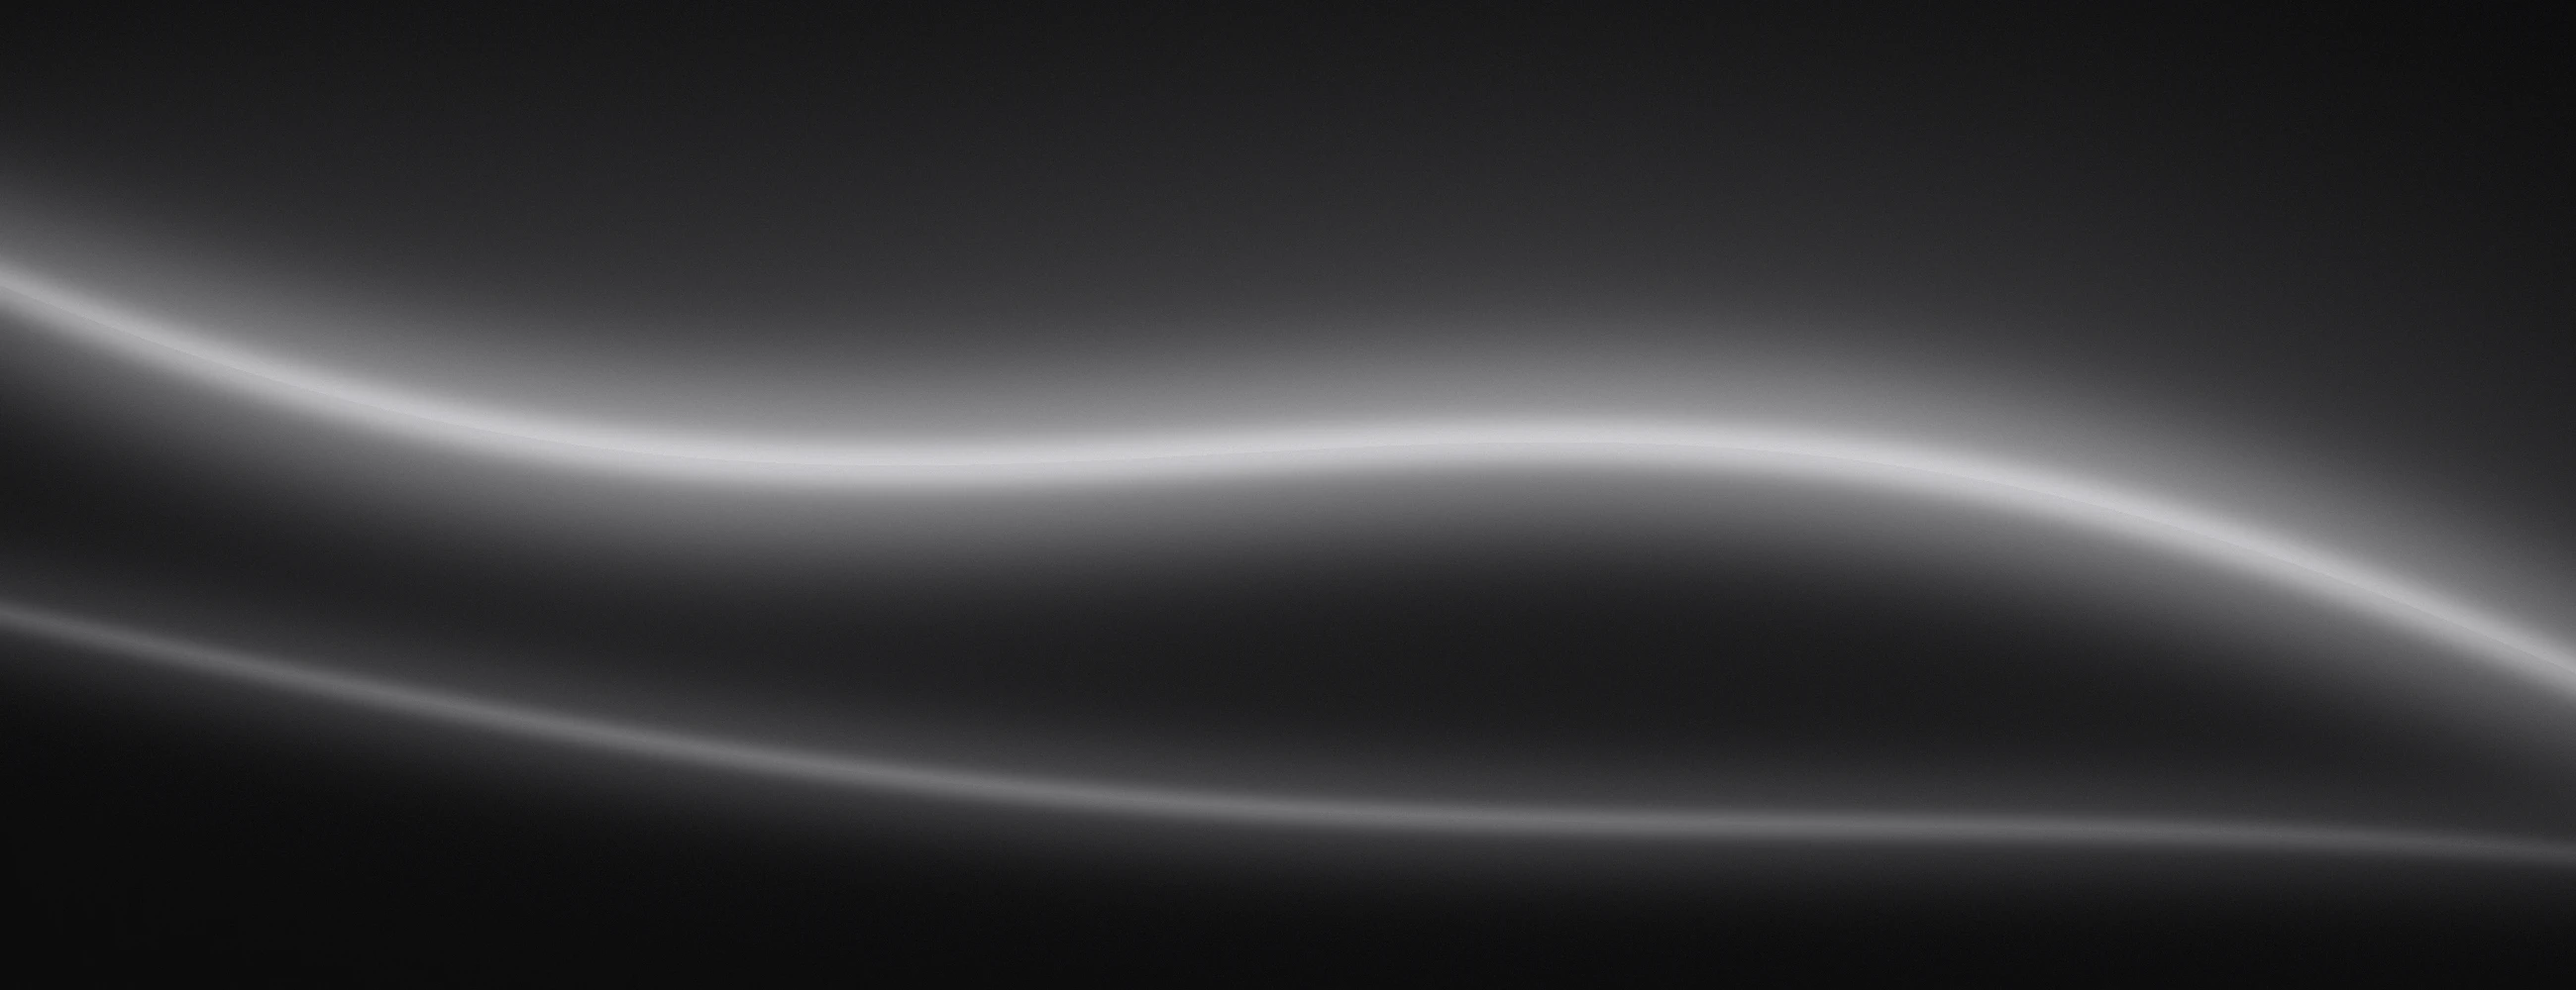
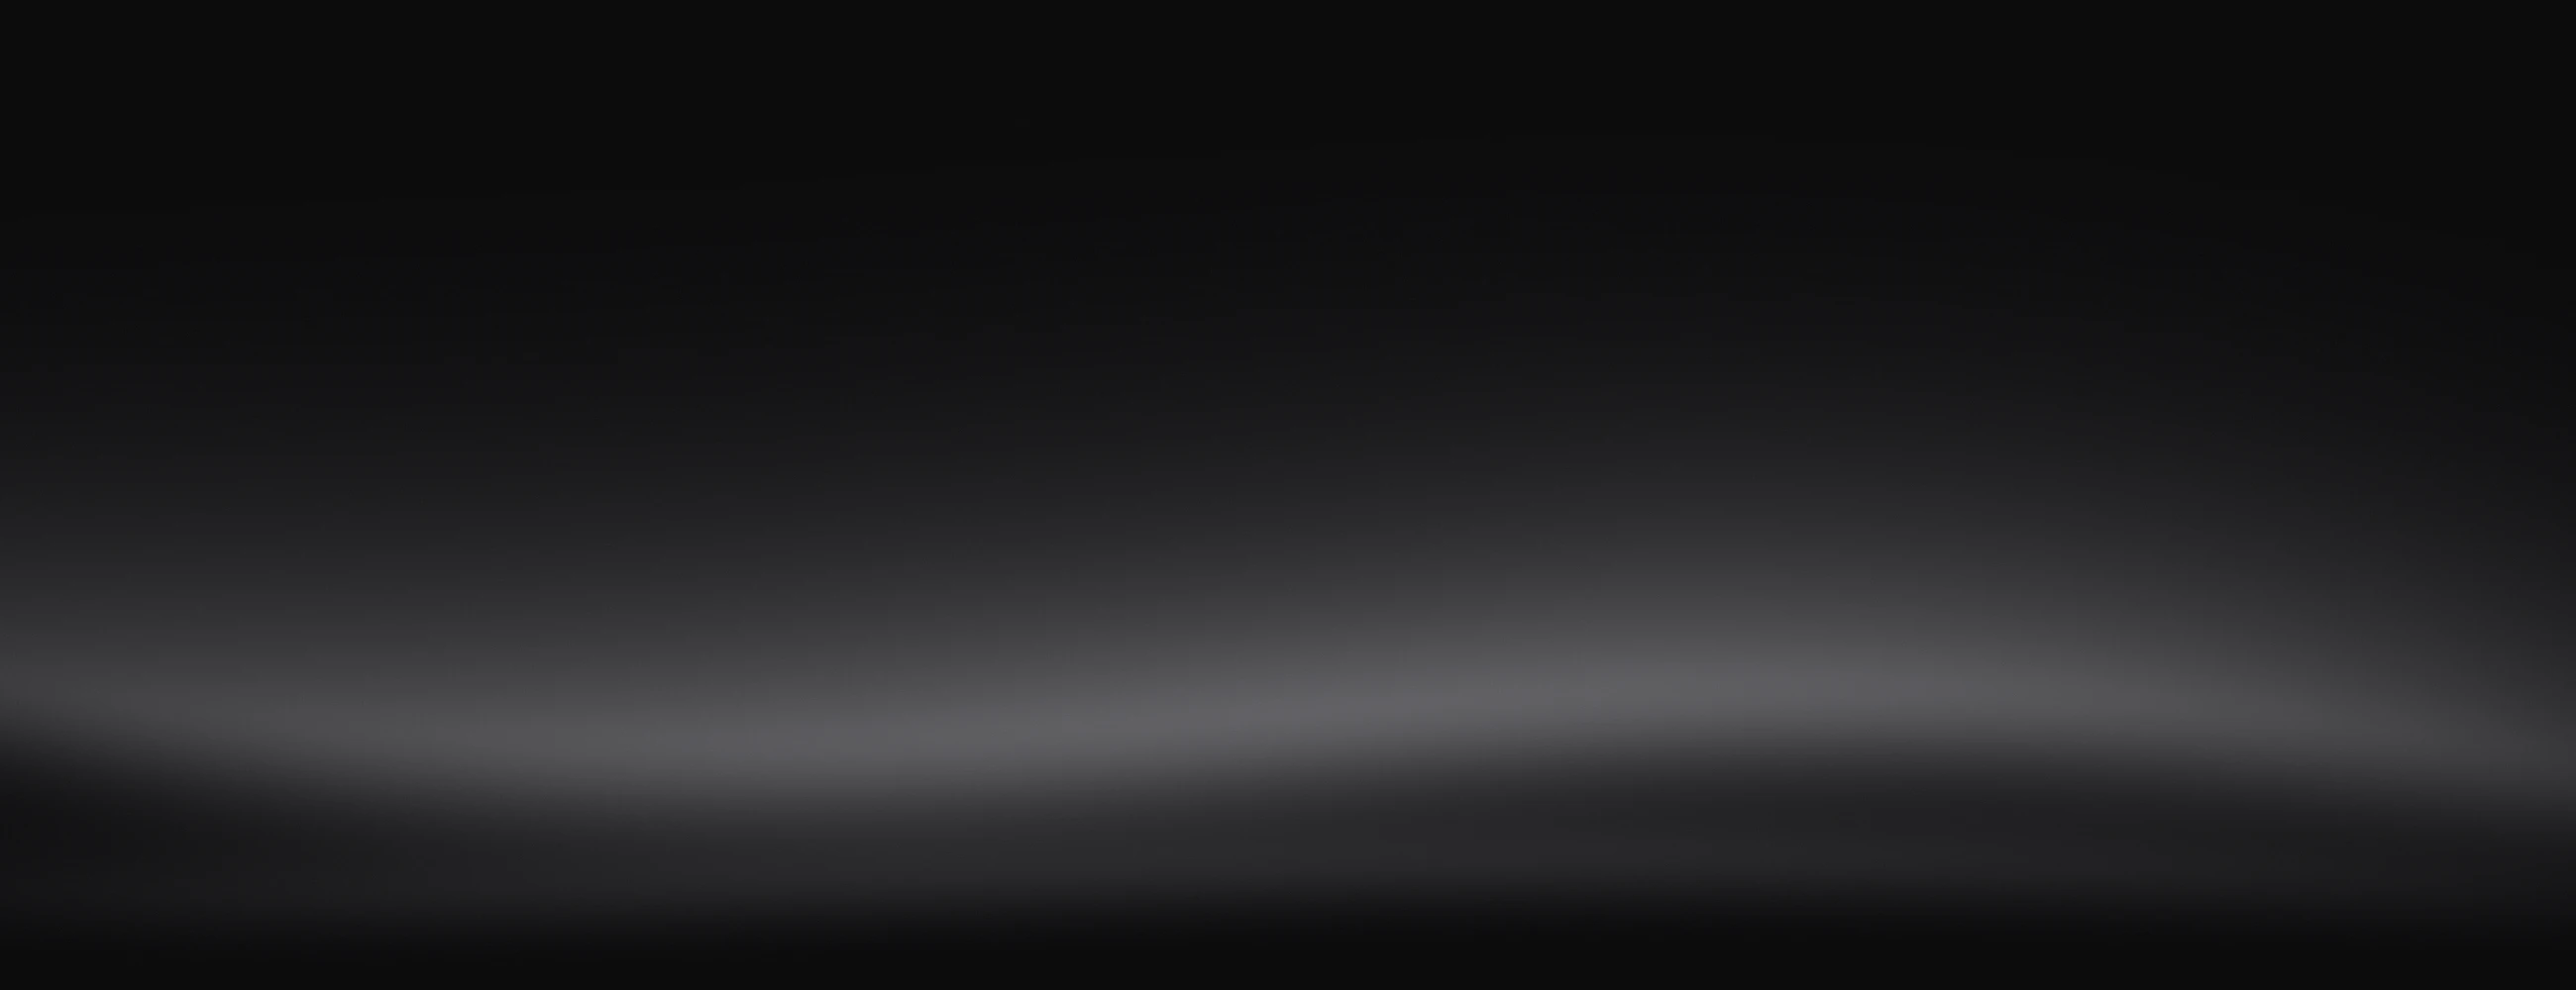
Softer light folds that stay clear of the content
No sharp lines: a wide soft fold low in each tile, the side panel and the
footer; panels and buttons on dark surfaces are near-opaque so text stays clear.

Claude-Session: https://claude.ai/code/session_01Lq8eh8ye9cREfEh26afm79

diff --git a/index.html b/index.html
@@ -402,7 +402,7 @@ h1,h2,h3,p{margin:0}
 .dt{--bg:#F2F2F4;--fg:#1C1C1E;--fg2:#8E8E93;--pn:#FFFFFF;--pl:transparent;--ch:rgba(0,0,0,.055);--hi:#1C1C1E;--hf:#FFFFFF;--ln:rgba(0,0,0,.16);--gl:rgba(0,0,0,.18);
   position:relative;container-type:inline-size;aspect-ratio:1/.9;max-width:100%;border-radius:var(--R);overflow:hidden;isolation:isolate;background:var(--bg);color:var(--fg)}
 :root[data-mode="dark"] .dt{--bg:#19191A;--fg:#F2F2EF;--fg2:#8E8E93;--pn:#262628;--ch:rgba(255,255,255,.07);--hi:#F2F2EF;--hf:#121211;--ln:rgba(255,255,255,.18);--gl:rgba(255,255,255,.3)}
-.cv-g .dt,.cv-g :root[data-mode="dark"] .dt{--bg:#0C0C0D;--fg:#F4F4F2;--fg2:rgba(244,244,242,.56);--pn:rgba(255,255,255,.07);--pl:rgba(255,255,255,.12);--ch:rgba(255,255,255,.085);--hi:#F4F4F2;--hf:#111112;--ln:rgba(255,255,255,.22);--gl:rgba(255,255,255,.75)}
+.cv-g .dt,.cv-g :root[data-mode="dark"] .dt{--bg:#0C0C0D;--fg:#F4F4F2;--fg2:rgba(244,244,242,.56);--pn:rgba(20,20,22,.8);--pl:rgba(255,255,255,.1);--ch:rgba(255,255,255,.085);--hi:#F4F4F2;--hf:#111112;--ln:rgba(255,255,255,.22);--gl:rgba(255,255,255,.75)}
 @keyframes dtg{to{transform:rotate(calc(var(--ga,-20deg) + 9deg)) translate3d(5%,-4%,0) scale(1.08)}}
 /* the streak leans toward the pointer and the scene drifts a little the other way */
 .dt-in{position:absolute;inset:0;font:400 clamp(11px,3.5cqw,16px)/1.25 var(--sans);letter-spacing:-.005em}
@@ -487,15 +487,15 @@ h1,h2,h3,p{margin:0}
 @media(max-width:700px){.cardx .dt{width:auto}.cardx .dcap{margin-top:16px;padding:0 6px}}
 /* footer with the light streak (gradient look) */
 .cv-g .ft{position:relative;overflow:hidden;isolation:isolate;background:#0C0C0D}
-.cv-g .ft .cts a:not(:first-child),.cv-g .ft .cts button{background:rgba(255,255,255,.08);box-shadow:inset 0 0 0 1px rgba(255,255,255,.1);-webkit-backdrop-filter:blur(14px);backdrop-filter:blur(14px)}
-.cv-g .ft .cts a:not(:first-child):hover,.cv-g .ft .cts button:hover{background:rgba(255,255,255,.14)}
+.cv-g .ft .cts a:not(:first-child),.cv-g .ft .cts button{background:rgba(26,26,28,.88);box-shadow:inset 0 0 0 1px rgba(255,255,255,.1);-webkit-backdrop-filter:blur(14px);backdrop-filter:blur(14px)}
+.cv-g .ft .cts a:not(:first-child):hover,.cv-g .ft .cts button:hover{background:rgba(44,44,46,.92)}
 .cv-g .side{background:#0B0B0C var(--wv) no-repeat 50% 50%/cover}
 .cv-g .hd{background:#0B0B0C var(--wh) no-repeat 30% 45%/cover}
 .cv-g .dt{background:#0B0B0C var(--wh) no-repeat var(--wx,50%) var(--wy,50%)/var(--ws,cover)}
-.cv-g .dt.dt-w{--wx:22%;--wy:40%}
-.cv-g .ft{background:linear-gradient(90deg,rgba(11,11,12,.82),rgba(11,11,12,.45) 48%,rgba(11,11,12,0) 78%),#0B0B0C var(--wh) no-repeat 50% 62%/cover}
-.cv-g .sd-row a,.cv-g .sd-mail{background:rgba(255,255,255,.07);box-shadow:inset 0 0 0 1px rgba(255,255,255,.08)}
-.cv-g .sd-row a:hover,.cv-g .sd-mail:hover{background:rgba(255,255,255,.12)}
+.cv-g .dt.dt-w{--wx:40%;--wy:30%}
+.cv-g .ft{background:linear-gradient(90deg,rgba(11,11,12,.7),rgba(11,11,12,.2) 50%,rgba(11,11,12,0) 80%),#0B0B0C var(--wh) no-repeat 50% 30%/cover}
+.cv-g .sd-row a,.cv-g .sd-mail{background:rgba(26,26,28,.88);box-shadow:inset 0 0 0 1px rgba(255,255,255,.08)}
+.cv-g .sd-row a:hover,.cv-g .sd-mail:hover{background:rgba(44,44,46,.92)}
 .cv-g .sd-nav button[aria-current="true"]{background:rgba(255,255,255,.09)}
 .cv-g .sd-nav button:hover{background:rgba(255,255,255,.06)}
 :root.cv-g:not([data-mode="dark"]) .btn:not(.g),:root.cv-g:not([data-mode="dark"]) .hst .go i{background:radial-gradient(90% 160% at 28% -30%,rgba(255,255,255,.3),transparent 62%),radial-gradient(70% 120% at 95% 130%,rgba(255,255,255,.12),transparent 60%),#121211;box-shadow:inset 0 1px 0 rgba(255,255,255,.14)}

diff --git a/ru/index.html b/ru/index.html
@@ -402,7 +402,7 @@ h1,h2,h3,p{margin:0}
 .dt{--bg:#F2F2F4;--fg:#1C1C1E;--fg2:#8E8E93;--pn:#FFFFFF;--pl:transparent;--ch:rgba(0,0,0,.055);--hi:#1C1C1E;--hf:#FFFFFF;--ln:rgba(0,0,0,.16);--gl:rgba(0,0,0,.18);
   position:relative;container-type:inline-size;aspect-ratio:1/.9;max-width:100%;border-radius:var(--R);overflow:hidden;isolation:isolate;background:var(--bg);color:var(--fg)}
 :root[data-mode="dark"] .dt{--bg:#19191A;--fg:#F2F2EF;--fg2:#8E8E93;--pn:#262628;--ch:rgba(255,255,255,.07);--hi:#F2F2EF;--hf:#121211;--ln:rgba(255,255,255,.18);--gl:rgba(255,255,255,.3)}
-.cv-g .dt,.cv-g :root[data-mode="dark"] .dt{--bg:#0C0C0D;--fg:#F4F4F2;--fg2:rgba(244,244,242,.56);--pn:rgba(255,255,255,.07);--pl:rgba(255,255,255,.12);--ch:rgba(255,255,255,.085);--hi:#F4F4F2;--hf:#111112;--ln:rgba(255,255,255,.22);--gl:rgba(255,255,255,.75)}
+.cv-g .dt,.cv-g :root[data-mode="dark"] .dt{--bg:#0C0C0D;--fg:#F4F4F2;--fg2:rgba(244,244,242,.56);--pn:rgba(20,20,22,.8);--pl:rgba(255,255,255,.1);--ch:rgba(255,255,255,.085);--hi:#F4F4F2;--hf:#111112;--ln:rgba(255,255,255,.22);--gl:rgba(255,255,255,.75)}
 @keyframes dtg{to{transform:rotate(calc(var(--ga,-20deg) + 9deg)) translate3d(5%,-4%,0) scale(1.08)}}
 /* the streak leans toward the pointer and the scene drifts a little the other way */
 .dt-in{position:absolute;inset:0;font:400 clamp(11px,3.5cqw,16px)/1.25 var(--sans);letter-spacing:-.005em}
@@ -487,15 +487,15 @@ h1,h2,h3,p{margin:0}
 @media(max-width:700px){.cardx .dt{width:auto}.cardx .dcap{margin-top:16px;padding:0 6px}}
 /* footer with the light streak (gradient look) */
 .cv-g .ft{position:relative;overflow:hidden;isolation:isolate;background:#0C0C0D}
-.cv-g .ft .cts a:not(:first-child),.cv-g .ft .cts button{background:rgba(255,255,255,.08);box-shadow:inset 0 0 0 1px rgba(255,255,255,.1);-webkit-backdrop-filter:blur(14px);backdrop-filter:blur(14px)}
-.cv-g .ft .cts a:not(:first-child):hover,.cv-g .ft .cts button:hover{background:rgba(255,255,255,.14)}
+.cv-g .ft .cts a:not(:first-child),.cv-g .ft .cts button{background:rgba(26,26,28,.88);box-shadow:inset 0 0 0 1px rgba(255,255,255,.1);-webkit-backdrop-filter:blur(14px);backdrop-filter:blur(14px)}
+.cv-g .ft .cts a:not(:first-child):hover,.cv-g .ft .cts button:hover{background:rgba(44,44,46,.92)}
 .cv-g .side{background:#0B0B0C var(--wv) no-repeat 50% 50%/cover}
 .cv-g .hd{background:#0B0B0C var(--wh) no-repeat 30% 45%/cover}
 .cv-g .dt{background:#0B0B0C var(--wh) no-repeat var(--wx,50%) var(--wy,50%)/var(--ws,cover)}
-.cv-g .dt.dt-w{--wx:22%;--wy:40%}
-.cv-g .ft{background:linear-gradient(90deg,rgba(11,11,12,.82),rgba(11,11,12,.45) 48%,rgba(11,11,12,0) 78%),#0B0B0C var(--wh) no-repeat 50% 62%/cover}
-.cv-g .sd-row a,.cv-g .sd-mail{background:rgba(255,255,255,.07);box-shadow:inset 0 0 0 1px rgba(255,255,255,.08)}
-.cv-g .sd-row a:hover,.cv-g .sd-mail:hover{background:rgba(255,255,255,.12)}
+.cv-g .dt.dt-w{--wx:40%;--wy:30%}
+.cv-g .ft{background:linear-gradient(90deg,rgba(11,11,12,.7),rgba(11,11,12,.2) 50%,rgba(11,11,12,0) 80%),#0B0B0C var(--wh) no-repeat 50% 30%/cover}
+.cv-g .sd-row a,.cv-g .sd-mail{background:rgba(26,26,28,.88);box-shadow:inset 0 0 0 1px rgba(255,255,255,.08)}
+.cv-g .sd-row a:hover,.cv-g .sd-mail:hover{background:rgba(44,44,46,.92)}
 .cv-g .sd-nav button[aria-current="true"]{background:rgba(255,255,255,.09)}
 .cv-g .sd-nav button:hover{background:rgba(255,255,255,.06)}
 :root.cv-g:not([data-mode="dark"]) .btn:not(.g),:root.cv-g:not([data-mode="dark"]) .hst .go i{background:radial-gradient(90% 160% at 28% -30%,rgba(255,255,255,.3),transparent 62%),radial-gradient(70% 120% at 95% 130%,rgba(255,255,255,.12),transparent 60%),#121211;box-shadow:inset 0 1px 0 rgba(255,255,255,.14)}
